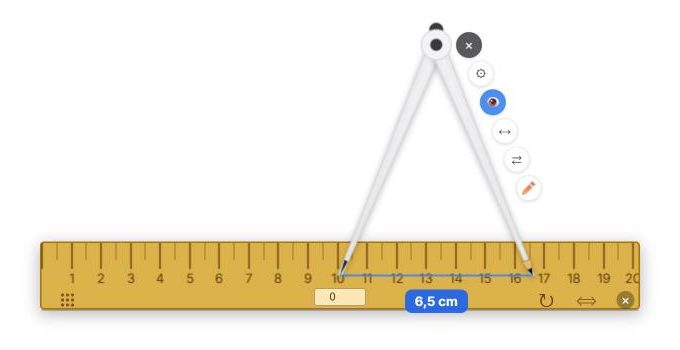
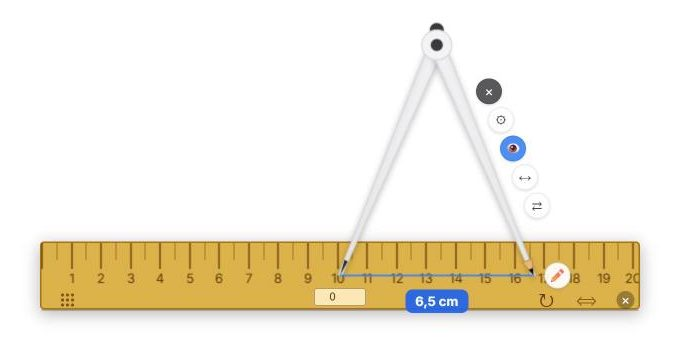
v2-124: compasso, comandi a metà braccio, matita accanto alla mina, si sposta dalla cerniera
Richieste delle colleghe: la colonna dei comandi è centrata a metà del braccio
della matita; la ✏ esce dalla colonna e sta subito oltre la mina, sulla linea
ago-matita (l'arco parte esattamente dalla punta); il compasso si sposta da una
maniglia nuova sulla cerniera, l'ago non si tocca più (resta il riferimento del
centro). Guida e schermata del compasso aggiornate.

Claude-Session: https://claude.ai/code/session_01WUB29Dj37Pn3yBCAgy5k9Z

diff --git a/sw.js b/sw.js
@@ -1,4 +1,4 @@
-const CACHE_NAME = 'eduboard-v2-123'; // v2-123 — Guida illustrata: con la scheda Guida la finestra si allarga, capitoli a sinistra e testo con le schermate dell'app a destra, pulsanti capitolo precedente/successivo; stessi 16 capitoli e stessa ricerca. Corretto dove sta «Cattura» (Magic Box, non Gestione File) e aggiunto il compasso nel capitolo Forme e geometria · v2-122 — Gomma-lazo: non fa più ricomparire scritte fantasma (tratti rimasti nell'elenco senza pixel: lezioni salvate prima della v2-108 dopo averne aperta una vecchia, oppure scritte cancellate con la gomma normale). All'apertura della pagina e a fine passata di gomma si tolgono i tratti che sulla tela non si vedono · v2-121 — Magic Box: il compasso (o l'ultimo strumento geo cliccato) restava evidenziato di azzurro anche da chiuso — causa: un selettore troppo largo nel pannello Forme intercettava anche i pulsanti del Magic Box, che condividono la stessa classe CSS solo per lo stile. Ristretto al solo pannello Forme · v2-120 — Compasso: corretta per davvero l'inversione (nella v2-119 a certe aperture ribaltava ancora sopra/sotto invece di specchiare solo destra/sinistra — ora la cerniera resta sempre dalla stessa parte, verificato matematicamente a più angoli, non solo a riposo) · v2-119 — Compasso, ritocchi chiesti da Fabio dopo il primo giro: l'inversione ora specchia la matita a destra/sinistra (non più sopra/sotto); icona apri/chiudi diversa da quella d'inversione; pulsanti tutti della stessa misura, un po' più piccoli, inclinati come il braccio destro e disposti FUORI dal compasso (prima coprivano l'interno); ago sottile e aguzzo distinto dalla matita (corpo in legno, mina nel colore di disegno corrente); dimensione di riposo molto più grande (metà della scala, resettata ogni volta che si riapre insieme all'angolo); misura cliccabile per scriverla a tastiera, e se il valore scritto richiede più apertura la dimensione si allarga da sola invece di tagliarlo in silenzio; angolo di riposo quasi chiuso (non più spalancato); compasso e righello ora si aprono al centro della pagina visibile, non più in un punto fisso che poteva finire fuori schermo; icona del goniometro nel Magic Box più classica (semicerchio con tacche) · Libreria: una lezione nuova ora compare alla prossima apertura della libreria anche se era chiusa al momento del salvataggio (prima serviva ricaricare la pagina) · v2-118 — Compasso vero nel Magic Box, su modello di Fabio: due bracci rigidi incernierati, l'ago fisso nel punto 0, si apre sempre dritto. Colonna comandi: chiudi, impostazioni (angolo numerico, dimensione, unità mm/cm/in sempre in scala vera), occhio (misura persistente fra le punte), apri/chiudi trascinando, inverti, disegna — tenendo premuto sulla matita e girando il dito intorno all'ago traccia l'arco col colore/spessore/tipo dello strumento di disegno a mano libera scelto · v2-117 — Forme → Solide: aggiunta la sfera (cerchio + equatore, metà tratteggiata) · v2-116 — Forme: aggiunti quadrato, parallelogramma, trapezio rettangolo/isoscele/scaleno nella sezione «Piane»; nuova sezione «Solide» con cubo, parallelepipedo, piramide a base quadrata, cono, cilindro (spigoli nascosti tratteggiati) · v2-115 (accorpa v2-109..114, mai uscite in produzione) — niente finestra «lampo» della pagina vecchia prima del ricaricamento; una sola finestra delle novità (prima due sovrapposte); scritte del Testo selezionate: si spostano, si ingrandiscono e un tocco breve le apre in modifica; versione vera nel menu del telefono; scritte dello strumento Testo che si riaprono in modifica toccandole; foto dalla galleria dal telefono; il telefono non si ricarica più a metà di QR/accesso/timer dopo un aggiornamento; lezione nuova: ripiego sull'ultima lezione in localStorage e messaggio con la cartella; icone del pannello ingranaggio colorate con la scritta sotto, pannello che resta dentro lo schermo, pulsanti delle scritte non più accesi su immagini/aree; finestra delle novità larga, senza chiusura a tempo, con X e scorrimento; ritaglio immagini con maniglie (non distruttivo, obj.crop), immagini nitide ingrandendo (tela HD sulla parte visibile) e PDF a 2,5×, lazo di Seleziona che parte sopra un'immagine, contagocce, lezione nuova salvata sotto quella in uso · v2-108 (accorpa v2-106/107, mai uscite in produzione) — lezioni e cartelle con l'apostrofo nel nome di nuovo salvabili (errore Drive 400), errori di Drive spiegati in una finestra; Annulla azzerato a ogni cambio pagina/lezione/lavagna nuova; lezioni vecchie (senza pagine) che non ereditano più tratti e pagine della precedente; gomma-lazo/gomma-tratto/selezione che non cancellano più il disegno salvato come immagine · v2-105 — pulsanti degli strumenti geometrici evidenziati solo a strumento aperto · v2-104 — squadre 45° e 30°/60° nel Magic Box, penna al bordo più vicino con più strumenti aperti · v2-103 — sfondi a righe e quadretti con le misure vere (5, 7, 9, 12, 15 mm e quadretti 5 mm) · v2-102 — icone del righello più distanziate, icona sposta a 9 puntini anche sul goniometro · v2-101 — righello più alto (non più lungo) con i comandi sotto i numeri · v2-100 — righello un po’ più grande con la scala dei quadretti veri (segue lo zoom), goniometro che disegna l’arco appoggiando lo stilo al bordo · v2-099 — cornice dell'area di stampa azzurrina e più spessa sulle righe scure · v2-098 (accorpa v2-097, mai uscita in produzione) — righe/quadretti agganciati al bordo del foglio, niente rosso, orientamento nelle Preferenze, cartelle che non cambiano più lo sfondo · v2-097 — collegamento Drive che scade: fascia gialla/rossa, Rinnova in un tocco, niente più «Salvato» falso, lavoro salvato al ricollegamento; sfondo e orientamento per pagina (anche immagini), sfondi immagine che non si rimpiccioliscono; Righe scure
+const CACHE_NAME = 'eduboard-v2-124'; // v2-124 — Compasso, richieste delle colleghe: colonna dei comandi centrata a metà del braccio; la ✏ per disegnare sta accanto alla punta della matita (sulla linea ago-matita, così l'arco parte esattamente dalla mina); il compasso si sposta prendendolo dalla cerniera, non più dall'ago. Guida aggiornata · v2-123 — Guida illustrata: con la scheda Guida la finestra si allarga, capitoli a sinistra e testo con le schermate dell'app a destra, pulsanti capitolo precedente/successivo; stessi 16 capitoli e stessa ricerca. Corretto dove sta «Cattura» (Magic Box, non Gestione File) e aggiunto il compasso nel capitolo Forme e geometria · v2-122 — Gomma-lazo: non fa più ricomparire scritte fantasma (tratti rimasti nell'elenco senza pixel: lezioni salvate prima della v2-108 dopo averne aperta una vecchia, oppure scritte cancellate con la gomma normale). All'apertura della pagina e a fine passata di gomma si tolgono i tratti che sulla tela non si vedono · v2-121 — Magic Box: il compasso (o l'ultimo strumento geo cliccato) restava evidenziato di azzurro anche da chiuso — causa: un selettore troppo largo nel pannello Forme intercettava anche i pulsanti del Magic Box, che condividono la stessa classe CSS solo per lo stile. Ristretto al solo pannello Forme · v2-120 — Compasso: corretta per davvero l'inversione (nella v2-119 a certe aperture ribaltava ancora sopra/sotto invece di specchiare solo destra/sinistra — ora la cerniera resta sempre dalla stessa parte, verificato matematicamente a più angoli, non solo a riposo) · v2-119 — Compasso, ritocchi chiesti da Fabio dopo il primo giro: l'inversione ora specchia la matita a destra/sinistra (non più sopra/sotto); icona apri/chiudi diversa da quella d'inversione; pulsanti tutti della stessa misura, un po' più piccoli, inclinati come il braccio destro e disposti FUORI dal compasso (prima coprivano l'interno); ago sottile e aguzzo distinto dalla matita (corpo in legno, mina nel colore di disegno corrente); dimensione di riposo molto più grande (metà della scala, resettata ogni volta che si riapre insieme all'angolo); misura cliccabile per scriverla a tastiera, e se il valore scritto richiede più apertura la dimensione si allarga da sola invece di tagliarlo in silenzio; angolo di riposo quasi chiuso (non più spalancato); compasso e righello ora si aprono al centro della pagina visibile, non più in un punto fisso che poteva finire fuori schermo; icona del goniometro nel Magic Box più classica (semicerchio con tacche) · Libreria: una lezione nuova ora compare alla prossima apertura della libreria anche se era chiusa al momento del salvataggio (prima serviva ricaricare la pagina) · v2-118 — Compasso vero nel Magic Box, su modello di Fabio: due bracci rigidi incernierati, l'ago fisso nel punto 0, si apre sempre dritto. Colonna comandi: chiudi, impostazioni (angolo numerico, dimensione, unità mm/cm/in sempre in scala vera), occhio (misura persistente fra le punte), apri/chiudi trascinando, inverti, disegna — tenendo premuto sulla matita e girando il dito intorno all'ago traccia l'arco col colore/spessore/tipo dello strumento di disegno a mano libera scelto · v2-117 — Forme → Solide: aggiunta la sfera (cerchio + equatore, metà tratteggiata) · v2-116 — Forme: aggiunti quadrato, parallelogramma, trapezio rettangolo/isoscele/scaleno nella sezione «Piane»; nuova sezione «Solide» con cubo, parallelepipedo, piramide a base quadrata, cono, cilindro (spigoli nascosti tratteggiati) · v2-115 (accorpa v2-109..114, mai uscite in produzione) — niente finestra «lampo» della pagina vecchia prima del ricaricamento; una sola finestra delle novità (prima due sovrapposte); scritte del Testo selezionate: si spostano, si ingrandiscono e un tocco breve le apre in modifica; versione vera nel menu del telefono; scritte dello strumento Testo che si riaprono in modifica toccandole; foto dalla galleria dal telefono; il telefono non si ricarica più a metà di QR/accesso/timer dopo un aggiornamento; lezione nuova: ripiego sull'ultima lezione in localStorage e messaggio con la cartella; icone del pannello ingranaggio colorate con la scritta sotto, pannello che resta dentro lo schermo, pulsanti delle scritte non più accesi su immagini/aree; finestra delle novità larga, senza chiusura a tempo, con X e scorrimento; ritaglio immagini con maniglie (non distruttivo, obj.crop), immagini nitide ingrandendo (tela HD sulla parte visibile) e PDF a 2,5×, lazo di Seleziona che parte sopra un'immagine, contagocce, lezione nuova salvata sotto quella in uso · v2-108 (accorpa v2-106/107, mai uscite in produzione) — lezioni e cartelle con l'apostrofo nel nome di nuovo salvabili (errore Drive 400), errori di Drive spiegati in una finestra; Annulla azzerato a ogni cambio pagina/lezione/lavagna nuova; lezioni vecchie (senza pagine) che non ereditano più tratti e pagine della precedente; gomma-lazo/gomma-tratto/selezione che non cancellano più il disegno salvato come immagine · v2-105 — pulsanti degli strumenti geometrici evidenziati solo a strumento aperto · v2-104 — squadre 45° e 30°/60° nel Magic Box, penna al bordo più vicino con più strumenti aperti · v2-103 — sfondi a righe e quadretti con le misure vere (5, 7, 9, 12, 15 mm e quadretti 5 mm) · v2-102 — icone del righello più distanziate, icona sposta a 9 puntini anche sul goniometro · v2-101 — righello più alto (non più lungo) con i comandi sotto i numeri · v2-100 — righello un po’ più grande con la scala dei quadretti veri (segue lo zoom), goniometro che disegna l’arco appoggiando lo stilo al bordo · v2-099 — cornice dell'area di stampa azzurrina e più spessa sulle righe scure · v2-098 (accorpa v2-097, mai uscita in produzione) — righe/quadretti agganciati al bordo del foglio, niente rosso, orientamento nelle Preferenze, cartelle che non cambiano più lo sfondo · v2-097 — collegamento Drive che scade: fascia gialla/rossa, Rinnova in un tocco, niente più «Salvato» falso, lavoro salvato al ricollegamento; sfondo e orientamento per pagina (anche immagini), sfondi immagine che non si rimpiccioliscono; Righe scure
 // Testo mostrato sulla LIM e su EduConnect dopo ogni aggiornamento automatico.
 // SOLO la versione nuova, una voce per riga: la storia completa sta in Impostazioni → Novità.
 const CHANGELOG  = `🧰 Magic Box: i pulsanti degli strumenti (righello, goniometro, squadre, compasso) ora restano evidenziati di azzurro solo quando lo strumento è davvero aperto — prima il compasso restava acceso anche da chiuso, pur non essendo mai stato usato.`;

diff --git a/index.html b/index.html
@@ -82,7 +82,7 @@
                 <img src="./icon-192x192.png" alt="EduBoard" class="logo-icon">
                 <div class="logo-info">
                     <span class="logo-text"><span class="logo-edu">Edu</span><span class="logo-board">Board</span></span>
-                    <span class="logo-sub">v2-123 &nbsp;&nbsp; © EduTechLab di Rizzotto Fabio</span>
+                    <span class="logo-sub">v2-124 &nbsp;&nbsp; © EduTechLab di Rizzotto Fabio</span>
                 </div>
             </div>
             <div class="project-badge" id="project-name">Nuova Lavagna</div>
@@ -1245,7 +1245,7 @@
                     <img src="./icon-192x192.png" alt="EduBoard" width="64" height="64" style="border-radius:14px">
                     <div>
                         <div class="settings-info-appname"><span style="color:#3b82f6">Edu</span>Board</div>
-                        <div class="settings-info-version" id="info-version-text">v2-123</div>
+                        <div class="settings-info-version" id="info-version-text">v2-124</div>
                     </div>
                 </div>
                 <div class="settings-section">
@@ -1291,6 +1291,10 @@
             </div>
             <div class="settings-panel" id="tab-novita">
                 <div class="settings-section">
+                    <div class="settings-changelog-item">
+                        <div class="settings-changelog-ver">v2-124 — Ottobre 2026</div>
+                        <div class="settings-changelog-desc">🧭 <strong>Compasso</strong>, su richiesta delle colleghe: i comandi stanno <strong>a metà del braccio</strong> · la <strong>✏</strong> per disegnare è <strong>accanto alla punta della matita</strong> · il compasso si sposta prendendolo dalla <strong>cerniera</strong> in alto, non più dall'ago</div>
+                    </div>
                     <div class="settings-changelog-item">
                         <div class="settings-changelog-ver">v2-123 — Ottobre 2026</div>
                         <div class="settings-changelog-desc">📖 <strong>Guida illustrata</strong>: la scheda Guida ora si apre grande, con i capitoli a sinistra e, a destra, il testo insieme alle <strong>schermate dell'app</strong>. In fondo a ogni capitolo si passa al precedente o al successivo; la ricerca funziona come prima</div>
@@ -1546,7 +1550,7 @@
                 '<div class="settings-guide-item"><strong>🩹 Gomma</strong> — modo di cancellazione e dimensione. Anche qui l\'icona in barra mostra <strong>la modalità in uso</strong> (area, tratto o lazo) e ci resta finché non la cambi</div>' +
                 '<div class="settings-guide-item"><strong>T Testo</strong> · <strong>🔺 Forme</strong> · <strong>📐 Strumenti geometrici</strong> (righello, goniometro, compasso e squadre, dentro Magic Box)</div>' +
                 '<div class="settings-guide-item"><strong>✨ Magic Box</strong> — tutto quello che si aggiunge alla lezione: <em>Incorpora</em>, <em>Link</em>, <em>YouTube</em>, <em>Timer</em>, <em>Focus</em>, <em>Tendina</em>, <em>Righello</em>, <em>Goniometro</em>, <em>Compasso</em>, <em>Squadre</em></div>' +
-                '<div class="settings-guide-item"><strong>Compasso</strong> — l\'ago (punto 0) resta fermo dove lo trascini; si apre sempre dritto. Nella colonna di comandi: <strong>×</strong> chiude · <strong>⚙</strong> apre angolo numerico, dimensione e unità (mm/cm/in, sempre in scala vera) · <strong>👁</strong> mostra/nasconde la misura fra le due punte · <strong>⇆</strong> trascina per aprire/chiudere senza disegnare · <strong>⇄</strong> inverte il compasso · <strong>✏</strong> tieni premuto e gira il dito intorno all\'ago: disegna l\'arco col colore, lo spessore e il tipo di tratto che hai scelto nello strumento di disegno a mano libera (penna, matita, biro o pastello)</div>' +
+                '<div class="settings-guide-item"><strong>Compasso</strong> — si sposta prendendolo dalla <strong>cerniera</strong> in alto (la vite); l\'ago (punto 0) resta fermo e si apre sempre dritto. Nella colonna di comandi, a metà del braccio:<strong>×</strong> chiude · <strong>⚙</strong> apre angolo numerico, dimensione e unità (mm/cm/in, sempre in scala vera) · <strong>👁</strong> mostra/nasconde la misura fra le due punte · <strong>⇆</strong> trascina per aprire/chiudere senza disegnare · <strong>⇄</strong> inverte il compasso. Accanto alla punta della matita c\'è la <strong>✏</strong>: tieni premuto e gira il dito intorno all\'ago: disegna l\'arco col colore, lo spessore e il tipo di tratto che hai scelto nello strumento di disegno a mano libera (penna, matita, biro o pastello)</div>' +
                 '<div class="settings-guide-item"><strong>📁 Gestione File</strong> — <em>Crea nuova lavagna</em>, <em>Apri libreria lezioni</em>, <em>Stampa / Esporta PDF</em>, <em>Salva</em></div>' +
                 '<div class="settings-guide-item">In basso a destra restano <strong>schermo intero</strong>, <strong>adatta alla vista</strong>, la <strong>campanella</strong> degli avvisi e l\'<strong>icona account</strong>. A sinistra, la barra delle <strong>pagine</strong> con lo zoom</div>'},
 
@@ -1571,7 +1575,7 @@
                 '<div class="settings-guide-item"><strong>Forme → Solide</strong> — cubo, parallelepipedo, piramide a base quadrata, cono, cilindro, sfera (gli spigoli tratteggiati sono quelli nascosti dietro il solido)</div>' +
                 '<div class="settings-guide-item"><strong>Righello</strong> — trascinabile e ruotabile: il tratto scivola lungo il bordo per linee perfettamente dritte. La scala è quella dei quadretti veri (1 cm = un quadretto da 1 cm) e segue lo zoom; ingrandendo compaiono anche i millimetri</div>' +
                 '<div class="settings-guide-item"><strong>Goniometro</strong> — trascinabile, per misurare e disegnare angoli: appoggia la penna sul bordo curvo e il tratto segue l\'arco</div>' +
-                '<div class="settings-guide-item"><strong>Compasso</strong> — nel ✨ Magic Box. L\'ago resta fermo dove lo metti; con <strong>↔</strong> lo apri senza disegnare, con <strong>✏</strong> tenuto premuto giri intorno all\'ago e disegni l\'arco o il cerchio; l\'<strong>occhio</strong> mostra la misura in centimetri, la stessa del righello. Tutti i comandi sono descritti nel capitolo 1</div>' +
+                '<div class="settings-guide-item"><strong>Compasso</strong> — nel ✨ Magic Box. Si sposta dalla cerniera in alto, l\'ago resta fermo; con <strong>↔</strong> lo apri senza disegnare, con la <strong>✏</strong> accanto alla punta della matita, tenuta premuta, giri intorno all\'ago e disegni l\'arco o il cerchio; l\'<strong>occhio</strong> mostra la misura in centimetri, la stessa del righello. Tutti i comandi sono descritti nel capitolo 1</div>' +
                 '<div class="settings-guide-item"><strong>Squadre 45° e 30°/60°</strong> — la penna scorre dritta lungo il lato più vicino, anche quello lungo; sui due lati corti c\'è la scala in centimetri, uguale ai quadretti. Al centro della squadra ci sono i comandi: sposta, ruota, ingrandisci, gradi, capovolgi (angolo retto a destra o a sinistra) e chiudi. Si possono usare insieme al righello, per esempio per tracciare le parallele: il tratto va allo strumento il cui bordo è più vicino alla penna</div>' +
                 '<div class="settings-guide-item">Selezionando più forme o tratti insieme: <strong>Unisci</strong> li fa muovere come un unico gruppo, <strong>Dividi</strong> li separa di nuovo</div>'},
 

diff --git a/geometry.js b/geometry.js
@@ -1166,7 +1166,8 @@ class CompassTool {
         w.style.display = 'none';
         w.innerHTML = `
             <canvas class="compass-canvas" width="${COMPASS_DIM}" height="${COMPASS_DIM}"></canvas>
-            <div class="compass-needle" title="Tieni premuto per spostare il compasso"></div>
+            <div class="compass-needle"></div>
+            <div class="compass-hinge" title="Tieni premuto per spostare il compasso"></div>
             <div class="compass-readout">
                 <span class="compass-readout-text"></span>
                 <input type="text" inputmode="decimal" class="compass-readout-input" style="display:none">
@@ -1202,6 +1203,11 @@ class CompassTool {
         this.needleEl = w.querySelector('.compass-needle');
         this.resizeEl = w.querySelector('.compass-resize');
         this.drawEl   = w.querySelector('.compass-draw');
+        this.hingeEl  = w.querySelector('.compass-hinge');
+        // La ✏ esce dalla colonna e si mette accanto alla punta della matita (richiesta
+        // delle colleghe, 06/10/2026): fuori dalla colonna non ruota con lei.
+        w.appendChild(this.drawEl);
+        this.drawEl.classList.add('compass-draw-libera');
         this.readoutEl = w.querySelector('.compass-readout');
         this.readoutTextEl  = w.querySelector('.compass-readout-text');
         this.readoutInputEl = w.querySelector('.compass-readout-input');
@@ -1408,8 +1414,10 @@ class CompassTool {
         ctx.beginPath(); ctx.arc(H.x, H.y, 6, 0, Math.PI * 2);
         ctx.fillStyle = '#3a3a3c'; ctx.fill();
 
-        // Maniglia reale (DOM) dell'ago — riceve il dito per spostare il compasso
+        // Elemento (DOM) dell'ago: segna il centro dei cerchi (_updateCenter lo misura).
+        // Dal 06/10/2026 non si tocca più: il compasso si sposta prendendolo dalla CERNIERA.
         this.needleEl.style.left = N.x + 'px'; this.needleEl.style.top = N.y + 'px';
+        this.hingeEl.style.left  = H.x + 'px'; this.hingeEl.style.top  = H.y + 'px';
 
         // Lettura persistente (occhio): linea + etichetta fra le due punte
         if (this.misuraVisibile) {
@@ -1436,10 +1444,20 @@ class CompassTool {
         let perpx = -dyp / legScreenLen, perpy = dxp / legScreenLen;
         const Nvx = N.x - H.x, Nvy = N.y - H.y; // dalla cerniera verso l'ago
         if (perpx * Nvx + perpy * Nvy > 0) { perpx = -perpx; perpy = -perpy; } // scarta il lato verso l'ago
+        // Dal 06/10/2026 la colonna è centrata a METÀ del braccio, non più appesa alla
+        // cerniera (richiesta delle colleghe).
         const ctrl = this.el.querySelector('.compass-ctrl');
-        ctrl.style.left = (H.x + perpx * 30) + 'px';
-        ctrl.style.top  = (H.y + perpy * 30) + 'px';
-        ctrl.style.transform = `translate(-50%, 0) rotate(${legAngleDeg - 90}deg)`;
+        const Mx = (H.x + P.x) / 2, My = (H.y + P.y) / 2;
+        ctrl.style.left = (Mx + perpx * 30) + 'px';
+        ctrl.style.top  = (My + perpy * 30) + 'px';
+        ctrl.style.transformOrigin = 'center center';
+        ctrl.style.transform = `translate(-50%, -50%) rotate(${legAngleDeg - 90}deg)`;
+
+        // ✏ appena oltre la punta della matita, sulla linea ago→matita: premendola
+        // l'arco parte esattamente dalla mina (l'angolo del dito = quello della matita).
+        const rN = Math.hypot(P.x - N.x, P.y - N.y) || 1;
+        this.drawEl.style.left = (P.x + (P.x - N.x) / rN * 24) + 'px';
+        this.drawEl.style.top  = (P.y + (P.y - N.y) / rN * 24) + 'px';
         // Contro-ruota ogni icona così i simboli restano dritti anche se la colonna è inclinata
         const controRot = -(legAngleDeg - 90);
         ctrl.querySelectorAll('.compass-btn').forEach(b => { b.style.transform = `rotate(${controRot}deg)`; });
@@ -1450,7 +1468,7 @@ class CompassTool {
     }
 
     _setupNeedleDrag() {
-        const h = this.needleEl;
+        const h = this.hingeEl;   // si prende dalla cerniera (06/10/2026), non più dall'ago
         let st = null;
         h.addEventListener('pointerdown', (e) => {
             e.preventDefault(); e.stopPropagation();
@@ -1954,9 +1972,16 @@ class GeometryManager {
 .compass-tool { pointer-events: none; }
 .compass-canvas { display: block; pointer-events: none; }
 
+/* L'ago non si tocca più (serve solo a misurare il centro): il compasso si sposta dalla cerniera */
 .compass-needle {
     position: absolute;
     width: 40px; height: 40px;
+    transform: translate(-50%, -50%);
+    pointer-events: none;
+}
+.compass-hinge {
+    position: absolute;
+    width: 44px; height: 44px;
     transform: translate(-50%, -50%);
     border-radius: 50%;
     cursor: grab;
@@ -1965,8 +1990,12 @@ class GeometryManager {
     opacity: 0;
     transition: opacity 0.15s ease, background 0.15s ease;
 }
-.compass-needle:hover, .compass-needle:active { opacity: 1; background: rgba(59, 130, 246, 0.12); }
-.compass-needle:active { cursor: grabbing; }
+.compass-hinge:hover, .compass-hinge:active { opacity: 1; background: rgba(59, 130, 246, 0.14); }
+.compass-hinge:active { cursor: grabbing; }
+.compass-btn.compass-draw-libera {
+    position: absolute;
+    transform: translate(-50%, -50%);
+}
 
 .compass-readout {
     position: absolute;
